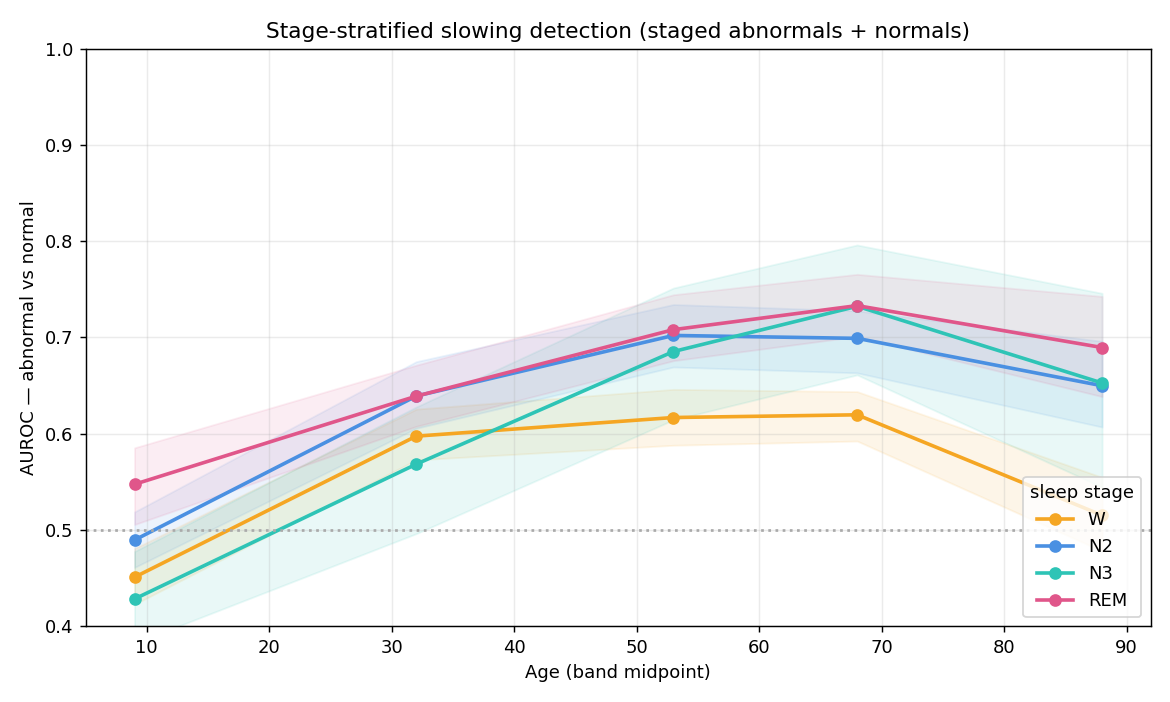
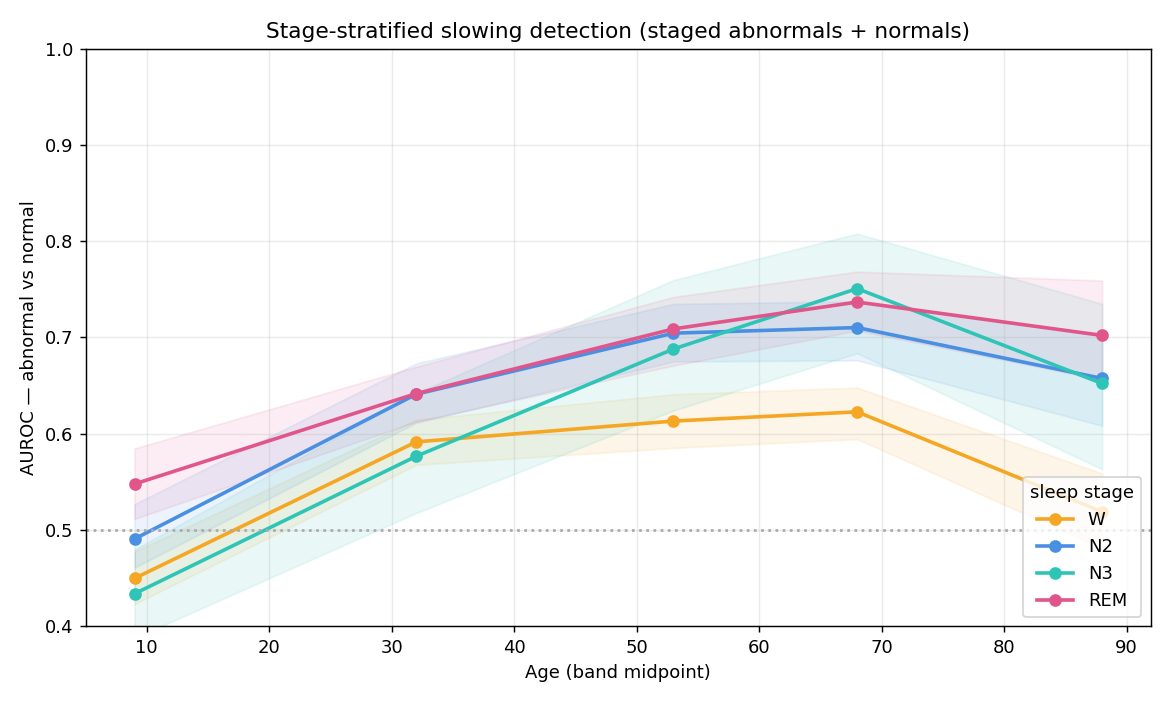
cycle 22: staging 4432/7463; stage AUROC refresh + comprehensive dashboard rebuild

diff --git a/AUTONOMOUS_STATUS.md b/AUTONOMOUS_STATUS.md
@@ -88,3 +88,9 @@ Single existing box only: ~$0.53/hr × ~24 h ≈ **$13**, bounded and known. **N
   (age-AUROC, localization macro-F1, staging-oversight-fixed, stage-stratified). Staging 921/7463 and
   climbing; stage AUROC re-run with more data. Remaining: let staging finish/plateau then resume EDF
   expansion; final summary + stop loop.
+- (cycle 22) Staging 4432/7463. During Brandon's review: added per-region one-vs-normal detection
+  (all regions 0.66-0.75), 4-curve band lateralization ROC, comprehensive evaluation-inventory dashboard
+  (curatable checklist + growth curves vs age/stage + captions). Report generator wired
+  (gate->band->band-matched antisymmetric side + bilateral abstain); fleet manifest prepends 17.6k
+  focal-theta priority candidates. Awaiting Brandon's curation of extra evals (severity/prevalence/
+  stage-accentuation/cross-site) + whether to improve the stage plot (regional vs whole-head).